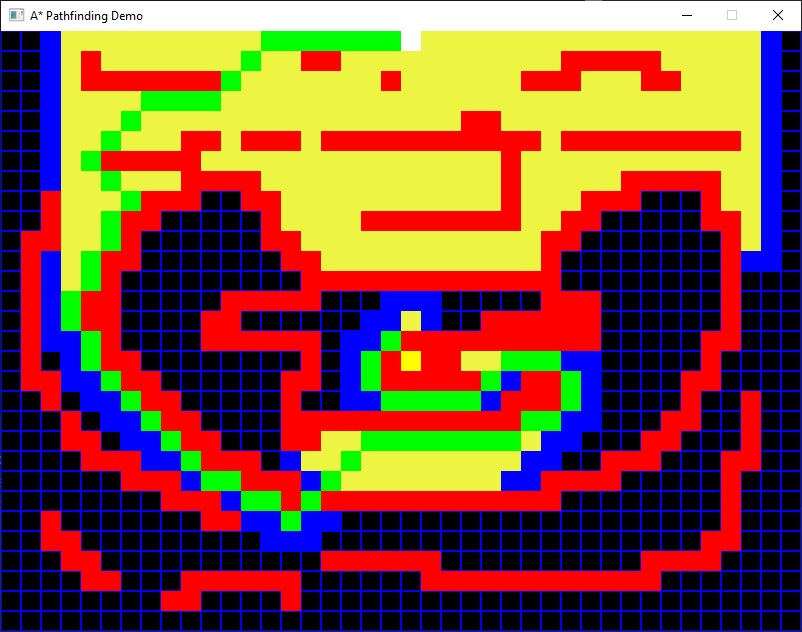
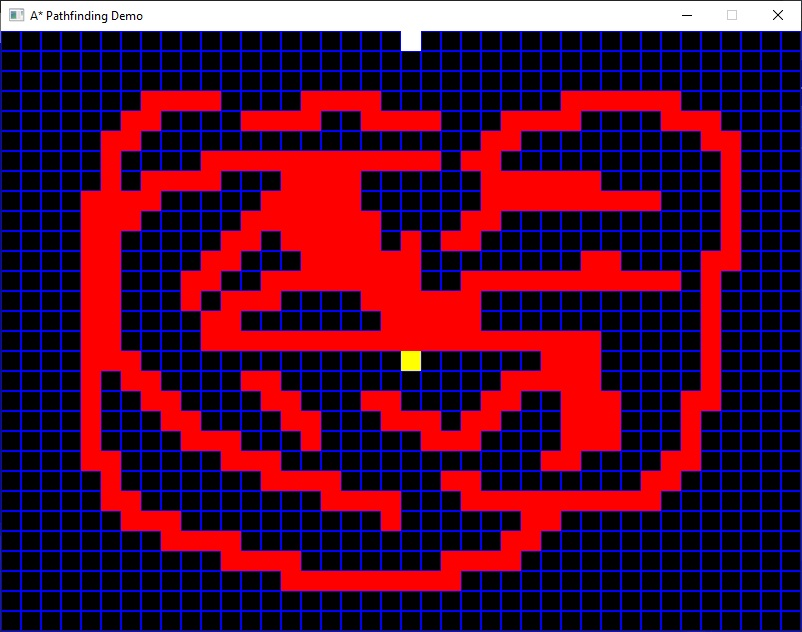
more readme changes

diff --git a/README.md b/README.md
@@ -3,3 +3,5 @@ A bunch of algorithms and other interesting stuff
 
 A* Pathfinding
 ![Screenshot](a_star_demo.jpg)
+
+![Screenshot](a_star_demo_running.jpg)
